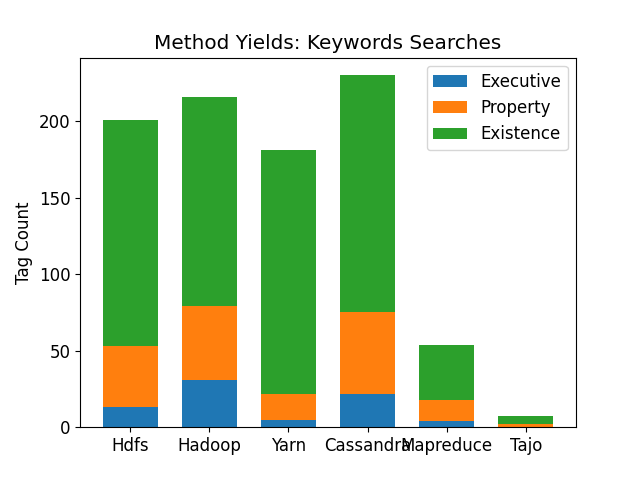
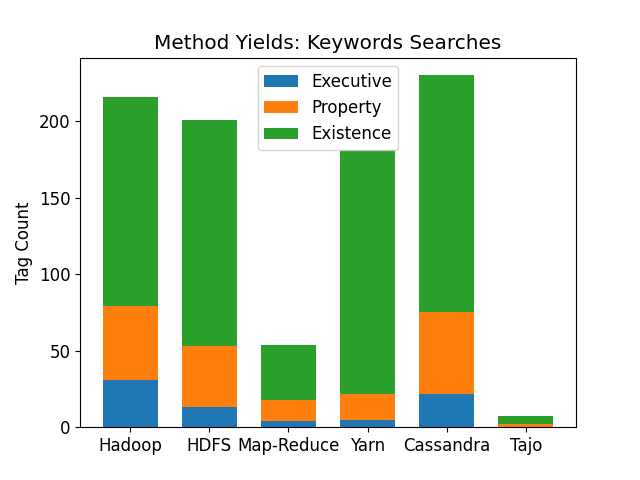
Figure 13: Fixed Project Order & Settable Labels

diff --git a/Statistics/script-3-intersection.py b/Statistics/script-3-intersection.py
@@ -53,16 +53,27 @@ def plot_method_type_yield(issue_list, filename):
                     data[project][thisTag] = 0
                 data[project][thisTag] += 1
 
-    projects = data.keys()
+    graph_element_order = [
+        {'HADOOP': 'Hadoop'},
+        {'HDFS': 'HDFS'},
+        {'MAPREDUCE': 'Map-Reduce'},
+        {'YARN': 'Yarn'},
+        {'CASSANDRA': 'Cassandra'},
+        {'TAJO': 'Tajo'}
+    ]
 
-    x_labels = [project.title() for project in projects]
+    # projects = data.keys()
+    projects = [list(x.keys())[0] for x in graph_element_order]
+
+    # x_labels = [project.title() for project in projects]
+    x_labels = [list(x.values())[0] for x in graph_element_order]
 
     fig, ax = plt.subplots()
 
     heights = []
 
     for i in range(len(types)):
-        bottoms = [0] * len(projects)
+        bottoms = [0] * len(graph_element_order)
 
         for prev in heights:
             for j in range(len(prev)):
